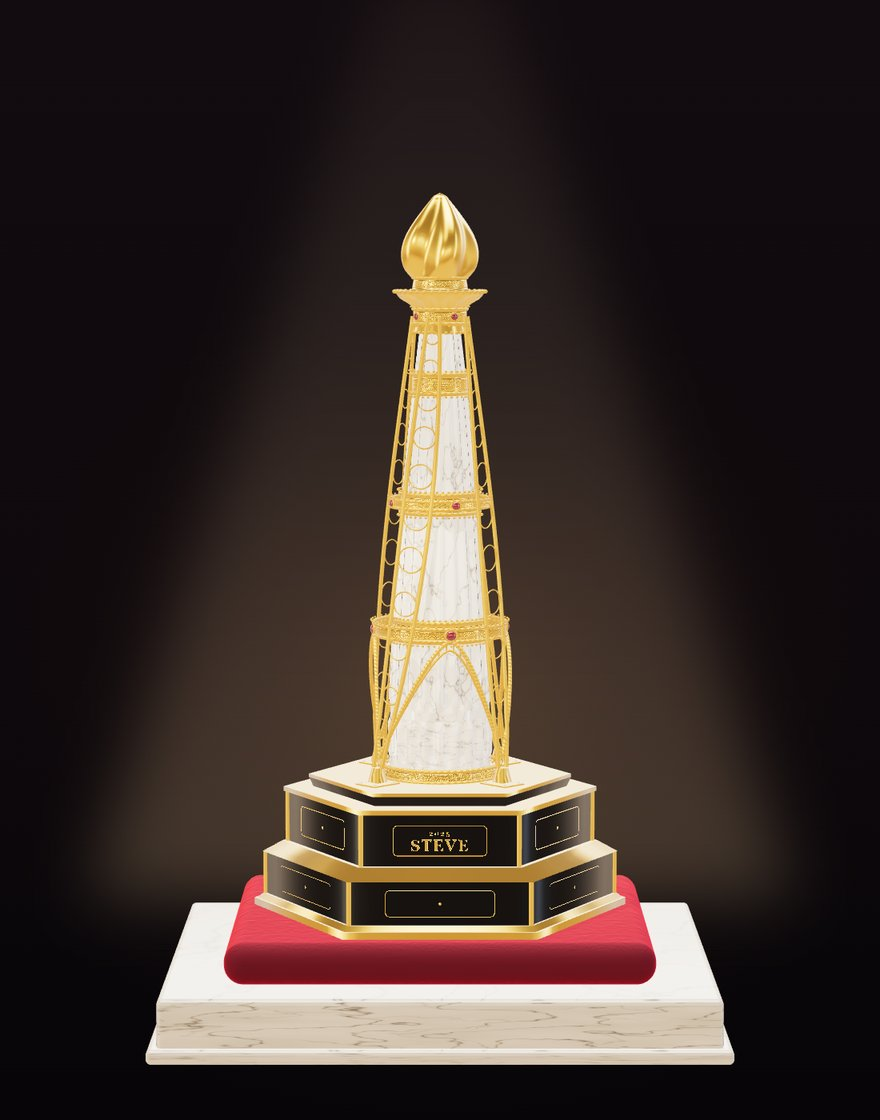
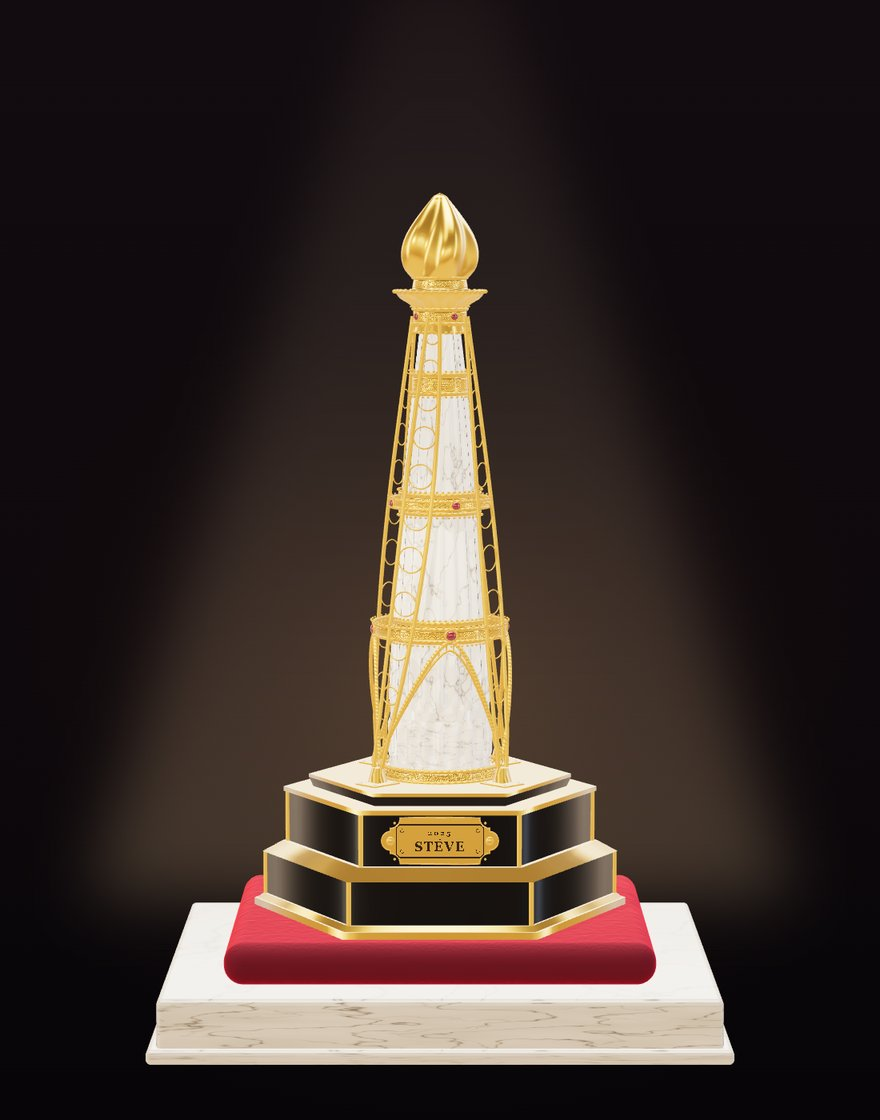
Trophy pictures: brass plaques for the named champions only

diff --git a/src/app/admin/trophy-room/page.tsx b/src/app/admin/trophy-room/page.tsx
@@ -10,11 +10,11 @@ type Champion = { playerId: string; name: string };
 type Season = { seasonYear: number; pickem: Champion[] | null; survivor: Champion[] | null; bowl: Champion[] | null };
 type Row = { playerId: string; name: string; ab: number; h: number; avg: number | null; qualified: boolean };
 
-// The three trophies, rendered once as pictures. Each champion's name is inlaid in the picture, so a new season needs a new render.
+// The three trophies, rendered once as pictures. Each champion's plaque is part of the picture, so a new season needs a new render.
 const display = [
-  { src: "/trophies/pickem.jpg", name: "Pick’em", note: "The marble pillar in its gold exoskeleton. Twelve name panels, two on each face of the hexagon." },
-  { src: "/trophies/bowl.jpg", name: "Bowl Pool", note: "The pennant cup. Ten name panels around the drum." },
-  { src: "/trophies/survivor.jpg", name: "Survivor", note: "The crystal spade and its chip. Five name panels." },
+  { src: "/trophies/pickem.jpg", name: "Pick’em", note: "The marble pillar in its gold exoskeleton. A brass plaque for each champion." },
+  { src: "/trophies/bowl.jpg", name: "Bowl Pool", note: "The pennant cup. A brass plaque for each champion, round the drum." },
+  { src: "/trophies/survivor.jpg", name: "Survivor", note: "The crystal spade and its chip. A brass plaque for each champion." },
 ];
 
 const pools: Array<{ key: "pickem" | "survivor" | "bowl"; label: string }> = [

diff --git a/docs/DECISION_LOG.md b/docs/DECISION_LOG.md
@@ -1753,7 +1753,6 @@ The Bowl Card (standings table) and the Bowl picks schedule used selectors like 
 
 Last year's Bowl Pool winner (Al, 2025) was already recorded in the shared championship ledger (`pool_championships`, pool `bowl`, by an earlier migration) but not in the Bowl Pool's own tables, because that pool only started in 2026. The Trophy Room read only the Bowl Pool's own table, so it showed "Not recorded" for 2025. It now takes Bowl champions from both places and lists a player once per year however many places record them. No migration was needed; nothing in the database changed.
 
-## The trophies carry their names directly, and the Survivor chip is easier to read
+## The trophies carry small brass plaques for their champions, and the Survivor chip is easier to read
 
-The three trophy pictures no longer have brass plates: each champion's year and name is inlaid in gold straight into the trophy (the hexagonal base's faces, the drum of the cup, the emerald steps), every slot has a fine gold keyline, and the slots still waiting for a champion show only the keyline. The Survivor chip was redrawn for legibility (a large, plain navy-on-ivory face with the four suits spade, heart, club, diamond across the top, SURVIVOR, then LAST MAN STANDING), and the gold beads that floated loose around it now sit on its own bezel. The names in the pictures (Steve, Al and John, all 2025) are artwork, not read from the database, so a new season needs the pictures re-rendered or the names overlaid on the page.
-
+Each trophy picture shows a small, ornate brass plaque (a cartouche with a rope edge, rivets and a keyline, the year and name engraved in dark brass) for every champion so far: Steve (Pick'em), Al (Bowl Pool) and John (Survivor), all 2025. There are no empty plaques: a plaque is added only when a champion is crowned, beside the last. The Survivor chip was redrawn for legibility (a large, plain navy-on-ivory face with the four suits spade, heart, club, diamond across the top, SURVIVOR, then LAST MAN STANDING), and the gold beads that floated loose around it now sit on its own bezel. The names in the pictures are artwork, not read from the database, so a new season needs the pictures re-rendered or the plaques overlaid on the page.
